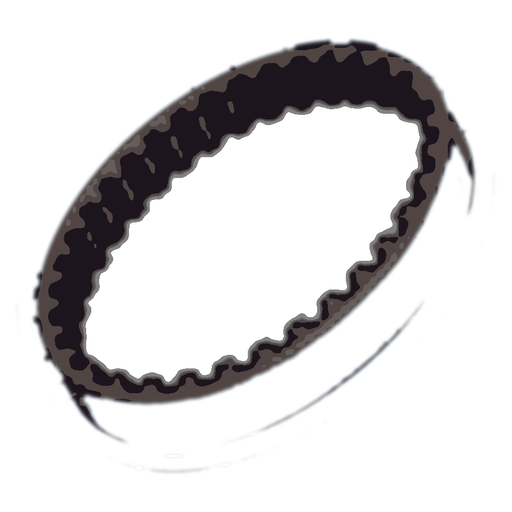
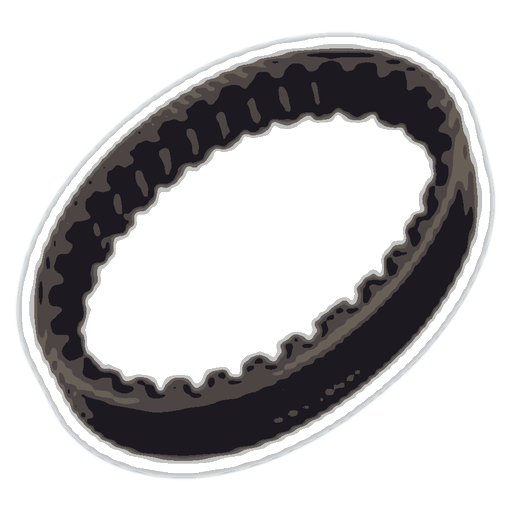
[7.3.1-dev] Tangent Belts, Recovering Overstress & Stock Thermal Governor
Belt pulley fix
The screenshot showed the actual problem: the straight belt runs were travelling through the centreline of each pulley instead of meeting the outer pulley rim.

Fixed:

Belt runs now sit tangent to the outside of each pulley.
The amber travel marker now stays on a real belt run instead of crossing pulley centres.
Belt_Pulley is now an open segmented rim around the shaft axle rather than a solid cylinder.
The shaft remains visible through the pulley centre.
The broad belt take-off surface now covers the tangent belt runs too.
Overstress now changes after load removal
Fixed the stale overload behavior:

Removing a generator/propeller/drivetrain block immediately clears the overload trip through the grid topology change.
Disabling a load without removing its block clears the overload through a short guarded retry.
While the protection trip is active, the engine consistently shows:
OVERSTRESSED — STOPPED
100% stress
It will no longer say OVERSTRESSED while displaying a misleading 8% idle stress value.
Stress now creates proportional heat
Mechanical stress now increases heat continuously.
A stock engine — no engine modules and no physical turbocharger — is hard-governed to 89°C maximum.
Installing engine modules or a physical turbo unlocks the high-risk thermal envelope:
heavy mechanical load can then exceed 89°C,
overheat,
and eventually seize the engine.
[…]

Changed region(s): [[0.0312, 0.0625, 0.9688, 0.9375]]

diff --git a/Scripts/Maritime/MechanicalBeltNetwork.cs b/Scripts/Maritime/MechanicalBeltNetwork.cs
@@ -229,7 +229,10 @@ namespace VoxelEngine.Maritime
             Vector3 localHit = grid.transform.InverseTransformPoint(worldHit);
             float along = Mathf.Clamp01(Vector3.Dot(localHit - start, span) / spanSqr);
             Vector3 projected = start + span * along;
-            float tapTolerance = Mathf.Max(0.18f, cellSize * 0.38f);
+            // The visual belt runs tangent outside the pulley rim, so permit that
+            // intentional radial offset while still requiring the aim to lie on this
+            // belt's longitudinal span.
+            float tapTolerance = Mathf.Max(0.22f, cellSize * 0.55f);
             if ((localHit - projected).sqrMagnitude > tapTolerance * tapTolerance
                 || along <= 0.02f || along >= 0.98f)
             {
@@ -601,9 +604,13 @@ namespace VoxelEngine.Maritime
             // enlarged the loop-plane separation instead, which made the belt look
             // taller. Keep the top/bottom run separation compact and make the band
             // itself dramatically wider across the pulley face.
-            float runGap = Mathf.Max(0.055f, cellSize * 0.085f);
             float radialThickness = Mathf.Max(0.026f, cellSize * 0.030f);
             float axialBeltWidth = Mathf.Max(0.22f, cellSize * 0.30f);
+            float pulleyRadius = Mathf.Max(0.16f, cellSize * 0.19f);
+            // Straight belt runs must sit tangent to the pulley rim. Keeping them
+            // near the centreline was what made the belt visibly cut through each
+            // Belt_Pulley in the reported screenshot.
+            float runGap = pulleyRadius + radialThickness * 0.70f;
             Quaternion rotation = Quaternion.LookRotation(direction, shaftAxis);
             Vector3 center = (start + end) * 0.5f;
 
@@ -612,9 +619,9 @@ namespace VoxelEngine.Maritime
             CreateVisualCube("Belt_Run_B", center - side * runGap, rotation,
                 new Vector3(radialThickness, axialBeltWidth, length), BeltMaterial);
 
-            // A short central travel marker keeps the dark rubber legible against
-            // iron hulls without turning the belt into a glowing cable.
-            CreateVisualCube("Belt_TravelMarker", center, rotation,
+            // Keep the travel marker on a real belt run instead of across the pulley
+            // centres, so it cannot visually cut through the shaft axle.
+            CreateVisualCube("Belt_TravelMarker", center + side * runGap, rotation,
                 new Vector3(radialThickness * 0.70f, axialBeltWidth * 0.72f, Mathf.Min(length * 0.26f, cellSize * 0.55f)), IndicatorMaterial);
             CreatePlacementSurface(center, rotation, length, cellSize, ownerLink);
         }
@@ -635,8 +642,9 @@ namespace VoxelEngine.Maritime
             collider.isTrigger = true;
             // Broad aim surface spanning both reinforced belt runs. It participates
             // only in GridBuilder's dedicated trigger raycast, never ship physics.
+            float pulleyRadius = Mathf.Max(0.16f, cellSize * 0.19f);
             collider.size = new Vector3(
-                Mathf.Max(cellSize * 0.30f, 0.34f),
+                Mathf.Max(pulleyRadius * 2.55f, cellSize * 0.55f),
                 Mathf.Max(cellSize * 0.78f, 0.85f),
                 length + Mathf.Max(cellSize * 0.10f, 0.08f));
 

diff --git a/Scripts/Maritime/GridMaritimeEngine.cs b/Scripts/Maritime/GridMaritimeEngine.cs
@@ -265,6 +265,9 @@ namespace VoxelEngine.Maritime
         /// reducing mechanical load to reset the breaker.
         /// </summary>
         public bool IsOverstressShutdown { get; private set; }
+        private float _overstressRetryAt;
+        private int _overstressTripBlockCount = -1;
+        private const float OverstressRetrySeconds = 0.75f;
 
         /// <summary>Number of turbochargers connected to this engine (for UI).</summary>
         public int ConnectedTurboCount { get; private set; }
@@ -651,10 +654,20 @@ namespace VoxelEngine.Maritime
             CountTurbos();
             RefreshModuleTotals();
 
-            // Explicitly toggling an engine OFF resets a protective mechanical
-            // overload trip. The player must then reduce the load/gear and re-enable
-            // it rather than letting an impossible generator bank flicker on/off.
-            if (!Enabled) IsOverstressShutdown = false;
+            // Explicitly toggling an engine OFF resets a protective trip immediately.
+            // If the player removes a drivetrain block, reset on that topology change;
+            // otherwise make a short guarded retry so disabling a generator can clear
+            // an overload without leaving a stale 100% state forever.
+            if (!Enabled)
+            {
+                ClearOverstressShutdown();
+            }
+            else if (IsOverstressShutdown
+                && ((Grid != null && Grid.BlockCount != _overstressTripBlockCount)
+                    || Time.time >= _overstressRetryAt))
+            {
+                ClearOverstressShutdown();
+            }
 
             float requestedThrottle = Enabled && idleWhenEnabled
                 ? Mathf.Max(throttle, idleThrottleFraction)
@@ -759,7 +772,7 @@ namespace VoxelEngine.Maritime
             // Preserve the trip readout while the protection breaker owns the
             // shutdown. Otherwise the next no-source propagation tick would display
             // a harmless 4–8% idle value while still saying OVERSTRESSED.
-            if (IsOverstressShutdown)
+            if (IsOverstressShutdown && Time.time < _overstressRetryAt)
             {
                 CurrentRPM = 0f;
                 CurrentTorque = 0f;
@@ -793,9 +806,18 @@ namespace VoxelEngine.Maritime
             if (Stress01 >= 0.999f)
             {
                 IsOverstressShutdown = true;
+                _overstressRetryAt = Time.time + OverstressRetrySeconds;
+                _overstressTripBlockCount = Grid != null ? Grid.BlockCount : -1;
                 IsRunning = false;
                 CurrentTorque = 0f;
             }
+        }
+
+        private void ClearOverstressShutdown()
+        {
+            IsOverstressShutdown = false;
+            _overstressRetryAt = 0f;
+            _overstressTripBlockCount = -1;
         }
 
         /// <summary>Scan only named turbo attachment slots and compute stacked boost.</summary>

diff --git a/Scripts/Maritime/MaritimeBlockUI.cs b/Scripts/Maritime/MaritimeBlockUI.cs
@@ -196,7 +196,7 @@ namespace VoxelEngine.Maritime
             var (stressBar, _) = T.ProgressBar(eng.Stress01, stressColor, 6, false);
             p.Add(stressBar);
             if (eng.IsOverstressShutdown)
-                p.Add(T.Muted("OVERSTRESSED: engine protection tripped. Reduce generator/propeller load, then toggle the engine OFF and ON to reset."));
+                p.Add(T.Muted("OVERSTRESSED: engine protection tripped. Remove or disable load to reset immediately; otherwise it makes a guarded retry shortly after the trip."));
 
             // ── Heat ──────────────────────────────────────────────────
             p.Add(T.Spacer(6));

diff --git a/Scripts/Core/GameVersion.cs b/Scripts/Core/GameVersion.cs
@@ -39,7 +39,7 @@ namespace VoxelEngine.Core
         // ── Bump these when you ship ──────────────────────────────────────
         public const int    Major = 7;
         public const int    Minor = 3;
-        public const int    Patch = 0;
+        public const int    Patch = 1;
 
         /// <summary>
         /// Channel suffix appended after a hyphen. Use "" for a stable release,

diff --git a/Roadmap.md b/Roadmap.md
@@ -1,10 +1,10 @@
 # 🏭 IndustrialWorld — Factory-Forward Development Roadmap
 
 **Branch:** `Dev`
-**Current Version:** `7.3.0-dev`
-**Roadmap Version:** `7.3.0-dev`
+**Current Version:** `7.3.1-dev`
+**Roadmap Version:** `7.3.1-dev`
 **Date:** 2026-08-03
-**Status:** Celestial Ruins & Themed Worlds COMPLETED (6.32.0–6.36.3) — 33 themed ruins across 11 planets, slot-chest loot, breakable/salvage, per-block colliders; Crusader Ruins Premium (6.30.0); Offline Survival (11.4) Completed + Grid Gravity Fixed (6.27.3) + Passive Oxygen (11.5); World Management (11.7) Completed; Power, Vehicles & Combat (4.7.0) remains WORKING ON — base defense network + ammo logistics + status UX shipped (6.57–6.68), jetpack fuel (6.72–6.77) + Armor Stations and timed upgrades Unity-validated (6.80.0–6.80.4-dev); 6.80.3-dev hardens mountain footing and dry spawn safety; 6.80.5–6.80.6 maritime power/ports/docking/tank recovery are Unity-validated; 7.0.0-dev intentionally removes Encased Chain Drive content; 7.1.0-dev adds belt-target placement, realistic mechanical load stress, portable-equipment persistence recovery, research-search input protection, and restored-grid ground clearance; 7.3.0-dev finalizes tiered armor capacity/module gates, truthful 100% engine trips with stock 89°C thermal governor, and true pulley-face belt width pending Unity validation, plus remaining life-support/paint work
+**Status:** Celestial Ruins & Themed Worlds COMPLETED (6.32.0–6.36.3) — 33 themed ruins across 11 planets, slot-chest loot, breakable/salvage, per-block colliders; Crusader Ruins Premium (6.30.0); Offline Survival (11.4) Completed + Grid Gravity Fixed (6.27.3) + Passive Oxygen (11.5); World Management (11.7) Completed; Power, Vehicles & Combat (4.7.0) remains WORKING ON — base defense network + ammo logistics + status UX shipped (6.57–6.68), jetpack fuel (6.72–6.77) + Armor Stations and timed upgrades Unity-validated (6.80.0–6.80.4-dev); 6.80.3-dev hardens mountain footing and dry spawn safety; 6.80.5–6.80.6 maritime power/ports/docking/tank recovery are Unity-validated; 7.0.0-dev intentionally removes Encased Chain Drive content; 7.1.0-dev adds belt-target placement, realistic mechanical load stress, portable-equipment persistence recovery, research-search input protection, and restored-grid ground clearance; 7.3.1-dev finalizes tiered armor capacity/module gates, recoverable truthful 100% engine trips with stock 89°C thermal governor, and tangent pulley-face belt runs pending Unity validation, plus remaining life-support/paint work
 **Release Notes:** [`Changelog.md`](Changelog.md)
 
 ---
@@ -85,7 +85,7 @@ The design goal is a seamless blend of:
 | Airtight systems | ❌ MISSING | No airtight doors, vents, or pressurized rooms |
 | Fall damage | ✅ COMPLETED | **6.25.0-dev:** Player fall damage tracks downward impact speed along local gravity. **6.80.0-dev:** Impact Padding upgrades reduce the resulting hard-landing damage per worn armor piece. |
 | Painting / finishes | ✅ COMPLETED | **6.71.0-dev:** Paint Tool + 15 cosmetic finishes for static/grid blocks, HUD swatch, inspection readout, additive save/restore, Step 46 authoring. |
-| Armor crafting/upgrades | 🟡 PARTIALLY COMPLETE | **6.80.4-dev:** Thomas Unity-validated the dedicated Armor Station, anvil-style Armor Upgrade Station, module crafting, timed installation (30s at T1 through 150s at T5/Hazmat), per-piece state, equipment interaction, and additive save/load. **7.3.0-dev** adds tier-gated module capacity/grade rules (T1→1 slot/T1 through T6→6 slots/T5; Hazmat T5+) pending Unity validation. Step 48 authors all content non-destructively. Remaining: broader reactor/re-entry/heated-room hazard systems. |
+| Armor crafting/upgrades | 🟡 PARTIALLY COMPLETE | **6.80.4-dev:** Thomas Unity-validated the dedicated Armor Station, anvil-style Armor Upgrade Station, module crafting, timed installation (30s at T1 through 150s at T5/Hazmat), per-piece state, equipment interaction, and additive save/load. **7.3.1-dev** adds tier-gated module capacity/grade rules (T1→1 slot/T1 through T6→6 slots/T5; Hazmat T5+) pending Unity validation. Step 48 authors all content non-destructively. Remaining: broader reactor/re-entry/heated-room hazard systems. |
 | Crusader player identity | ❌ MISSING | Player faction, heraldry, armor presentation, and Order progression need implementation |
 | Passive livestock | 🚧 IN PROGRESS | **6.43.0-dev:** Cow/Sheep/Pig + `PassiveAnimal` framework + spawner/temperate scatter done. **6.44.0-dev:** rideable horse (mount, full WASD steer, gallop, jump) done. Breeding/needs/husbandry + population limits remain. |
 | Mythical enemies / bosses | ✅ ROSTER COMPLETE (Leviathan sea-boss pending water/naval) | **6.41:** Ghoul. **6.45:** Manticore. **6.46:** Griffin. **6.47:** Karkadann. **6.48:** Ifrit Djinn. **6.49:** Roc mini-boss. **6.50.0-dev:** Basilisk (petrify gaze). All listed land mythical enemies + 1 boss done; Leviathan (sea serpent boss) remains pending water/naval combat support. |
@@ -731,7 +731,7 @@ Statuses are evidence-based and move forward only after code/content review and 
 | Unified grid placement | 🟡 PARTIALLY COMPLETE | Thomas validated Detail-on-Structural lattice placement and size-labelled content. Gas/liquid topology and screen data-source addressing now resolve both block scales on one Grid; **5.69.0-dev** persistence was Unity-validated by Thomas. Remaining positional-indexing work is open. |
 | Unified grid screen sources | ✅ COMPLETED | Thomas validated the unified screen/data-source work. Detail providers use precision-safe encoded addresses while legacy Structural addresses remain compatible. |
 | Unified pipe placement and networks | ✅ COMPLETED | Thomas validated existing Item/Gas/Liquid pipe Detail placement, one-to-five-cell Grid/world links, rotation-independent alignment, correct visual direction, midpoint arms, live ghost previews, stable topology, resource-safe ghosts, and wrench disconnect behavior. No duplicate pipe content was introduced. |
-| Vehicle power foundations | 🛠 WORKING ON | **6.9.0-dev** centralizes battery transfer so Recharge/Discharge modes work together, keeps Auto batteries deterministic, routes maritime fuel/coolant through the unified liquid-pipe network, adds a dedicated crude-engine solid-fuel hopper, and refreshes Step 13 ship-engine/turbo/chain-drive/generator visuals at large premium scale. **6.9.1-dev** further densifies the engine meshes so they read as solid industrial ship machinery with heavier superstructure, railings, housings, and larger flywheels inspired by the supplied reference. **6.9.2-dev** refines the three ship engines again to look less synthetic, relocates visual fuel/coolant/exhaust/rotation ports to more believable service points, centers the major flywheel/output faces, and moves turbo attachment markers onto sensible engine locations. **6.9.3-dev** adds idle engine shaft output for visible running behavior, animates chain-drive/rotation-transfer/generator coupling visuals, and snaps exhaust/shaft-driven maritime parts to the nearest believable matching engine or drivetrain port during placement. **6.17.1-dev** adds [DefaultExecutionOrder(-20)] to MaritimePropulsionSystem (runs before GridEntity), [DefaultExecutionOrder(0)] to GridEntity, maritime power sync in GridEntity.UpdatePower() so generator output and electrical-propeller demand flow into the grid battery pool, and fixes coolant consumption timing (use current-frame conditions instead of last-frame IsRunning). **6.18.0-dev** adds color-coded VARIABLE service ports on the HFO V8 / MGO V12 (aim any engine face → a fuel/coolant/oxygen port appears on the surface, always outside the hull; 1 fuel / 1 coolant / 1 oxygen / 2 exhaust caps, over-cap placement refused with a red ghost + message), rewrites the liquid+gas tank corridor probe onto the detail lattice with overlapping spheres so tanks a few cells off a pipe run connect and fuel/oxygen/coolant actually pump in, auto-orients the exhaust pipe's intake flange onto the engine's exhaust collector, and rebuilds the maritime propellers as true lofted screw blades. **6.19.0-dev** makes the propeller blades scale with the cell and render double-sided (they were invisible before), mounts the color-coded port collars flush on the hull (no more floating), slims the port so it no longer swallows a gas pipe, snaps the pipe hub to the fine Detail lattice, extends variable ports to the Crude Inline-4 (oxygen + item intake, new Item service, per-tier gating), removes the static fuel/coolant/oxygen/item engine ports (exhaust + shaft kept), widens the tank corridor/proximity reach so a tank ~0.5 m off a run connects (incl. diagonal), makes pipe-visual rebuilds event-driven (TopologyVersion bumped on block add/remove) to kill the close-pipe lag, and infers the carried liquid type so a second fuel run is refused with "Fuel input already connected (max 1)". **6.80.5-dev** fixes maritime generator/electrical-propeller double billing, stabilizes partial-power electrical propeller thrust with a resolved grid service fraction, and exposes command/delivered-power diagnostics in the propeller UI/terminal. **6.80.6-dev** adds exact mechanical-port snapping/directed topology, stable landing-pad/gear locks, restored grid Rigidbody pose, grid tank type/amount/mode persistence, and explicit void-or-cancel tank type prompts; Thomas Unity-validated the full maritime fuel→engine→shaft→propeller chain. **6.81.0-dev** adds persistent gearbox settings, a two-click Mechanical Belt bus that powers aligned shaft take-offs, and the sealed Watertight Shaft Housing. **7.0.0-dev** intentionally removes the Encased Chain Drive class, prefab, item, recipe, and generated materials; old ships may lose that block by approved design. Step 13 explicitly repairs the Mechanical Belt recipe and its Tier 1 Hydro-Mechanics research unlock. **7.1.0-dev** adds aim-at-belt shaft take-off placement, exact engine output-port snaps, finite generator/propeller drivetrain loads with engine/gearbox stress and RPM bogging, a Resources item-persistence catalog for portable batteries/H₂ tanks, Research-search Y-key protection, and restored-grid ground-clearance recovery. **7.3.0-dev** finalizes true pulley-face belt width with open-rim pulleys, gates armor upgrade slots/module tiers by armor tier, and makes 100% engine stress trip an explicit OVERSTRESSED shutdown while stock engines remain thermally governed to 89°C. Unity validation remains open. |
+| Vehicle power foundations | 🛠 WORKING ON | **6.9.0-dev** centralizes battery transfer so Recharge/Discharge modes work together, keeps Auto batteries deterministic, routes maritime fuel/coolant through the unified liquid-pipe network, adds a dedicated crude-engine solid-fuel hopper, and refreshes Step 13 ship-engine/turbo/chain-drive/generator visuals at large premium scale. **6.9.1-dev** further densifies the engine meshes so they read as solid industrial ship machinery with heavier superstructure, railings, housings, and larger flywheels inspired by the supplied reference. **6.9.2-dev** refines the three ship engines again to look less synthetic, relocates visual fuel/coolant/exhaust/rotation ports to more believable service points, centers the major flywheel/output faces, and moves turbo attachment markers onto sensible engine locations. **6.9.3-dev** adds idle engine shaft output for visible running behavior, animates chain-drive/rotation-transfer/generator coupling visuals, and snaps exhaust/shaft-driven maritime parts to the nearest believable matching engine or drivetrain port during placement. **6.17.1-dev** adds [DefaultExecutionOrder(-20)] to MaritimePropulsionSystem (runs before GridEntity), [DefaultExecutionOrder(0)] to GridEntity, maritime power sync in GridEntity.UpdatePower() so generator output and electrical-propeller demand flow into the grid battery pool, and fixes coolant consumption timing (use current-frame conditions instead of last-frame IsRunning). **6.18.0-dev** adds color-coded VARIABLE service ports on the HFO V8 / MGO V12 (aim any engine face → a fuel/coolant/oxygen port appears on the surface, always outside the hull; 1 fuel / 1 coolant / 1 oxygen / 2 exhaust caps, over-cap placement refused with a red ghost + message), rewrites the liquid+gas tank corridor probe onto the detail lattice with overlapping spheres so tanks a few cells off a pipe run connect and fuel/oxygen/coolant actually pump in, auto-orients the exhaust pipe's intake flange onto the engine's exhaust collector, and rebuilds the maritime propellers as true lofted screw blades. **6.19.0-dev** makes the propeller blades scale with the cell and render double-sided (they were invisible before), mounts the color-coded port collars flush on the hull (no more floating), slims the port so it no longer swallows a gas pipe, snaps the pipe hub to the fine Detail lattice, extends variable ports to the Crude Inline-4 (oxygen + item intake, new Item service, per-tier gating), removes the static fuel/coolant/oxygen/item engine ports (exhaust + shaft kept), widens the tank corridor/proximity reach so a tank ~0.5 m off a run connects (incl. diagonal), makes pipe-visual rebuilds event-driven (TopologyVersion bumped on block add/remove) to kill the close-pipe lag, and infers the carried liquid type so a second fuel run is refused with "Fuel input already connected (max 1)". **6.80.5-dev** fixes maritime generator/electrical-propeller double billing, stabilizes partial-power electrical propeller thrust with a resolved grid service fraction, and exposes command/delivered-power diagnostics in the propeller UI/terminal. **6.80.6-dev** adds exact mechanical-port snapping/directed topology, stable landing-pad/gear locks, restored grid Rigidbody pose, grid tank type/amount/mode persistence, and explicit void-or-cancel tank type prompts; Thomas Unity-validated the full maritime fuel→engine→shaft→propeller chain. **6.81.0-dev** adds persistent gearbox settings, a two-click Mechanical Belt bus that powers aligned shaft take-offs, and the sealed Watertight Shaft Housing. **7.0.0-dev** intentionally removes the Encased Chain Drive class, prefab, item, recipe, and generated materials; old ships may lose that block by approved design. Step 13 explicitly repairs the Mechanical Belt recipe and its Tier 1 Hydro-Mechanics research unlock. **7.1.0-dev** adds aim-at-belt shaft take-off placement, exact engine output-port snaps, finite generator/propeller drivetrain loads with engine/gearbox stress and RPM bogging, a Resources item-persistence catalog for portable batteries/H₂ tanks, Research-search Y-key protection, and restored-grid ground-clearance recovery. **7.3.1-dev** finalizes tangent belt runs around open pulley rims, gates armor upgrade slots/module tiers by armor tier, and makes 100% engine stress trip an honest recoverable OVERSTRESSED shutdown while stock engines remain thermally governed to 89°C. Unity validation remains open. |
 | Damage, armor, weapons, and life support | 🟡 PARTIALLY COMPLETE | Basic block HP/damage and one grid weapon foundation exist. **6.80.4-dev:** Thomas Unity-validated the dedicated Armor Station, timed anvil-style Armor Upgrade Station, five module branches (five tiers each), Hazmat sealing, per-piece persistence, and the slim environmental heat/radiation hook. Step 48 authors/repairs the content non-destructively. Full typed damage, pooled ballistics, airtight support, and the rest of the radiation/heat combat content remain open. |
 
 **Crusader identity requirements:**
@@ -1612,7 +1612,7 @@ For each version, these are the high-level Unity tasks you will perform manually
 19. Create painting tool item and 15 material finish variants.
 20. Add fall damage system and oxygen underwater system.
 21. **Run setup wizard steps (non-destructive)**
-    - Step 13 for maritime prefabs after drivetrain/port changes. **7.3.0-dev:** run it twice to refresh the v26 Watertight Shaft Housing mesh plus gearbox/generator/propeller/shaft port markers without overwriting ship balance or custom prefab work. Step 13 explicitly repairs the Mechanical Belt recipe/Hydro-Mechanics unlock and creates the Resources persistence catalog that prevents Portable Battery and Portable Hydrogen Tank save-loss. The removed Encased Chain Drive content stays absent by design.
+    - Step 13 for maritime prefabs after drivetrain/port changes. **7.3.1-dev:** run it twice to refresh the v26 Watertight Shaft Housing mesh plus gearbox/generator/propeller/shaft port markers without overwriting ship balance or custom prefab work. Step 13 explicitly repairs the Mechanical Belt recipe/Hydro-Mechanics unlock and creates the Resources persistence catalog that prevents Portable Battery and Portable Hydrogen Tank save-loss. The removed Encased Chain Drive content stays absent by design.
     - Step 18 for power/vehicle/combat/painting blocks.
     - Step 48 for the complete armor workflow, including both station prefabs, items, recipes, research links, timed installation setup, and T1→1-slot/T1-module through T6→6-slot/T5-module progression gates.
     - Preserve existing grid power values, weapon damage, recipe costs, craft times, materials, and custom prefab work.

diff --git a/Changelog.md b/Changelog.md
@@ -1,9 +1,30 @@
 # IndustrialWorld — Changelog
 
 **Branch:** `Dev`  
-**Current Version:** `7.3.0-dev`
+**Current Version:** `7.3.1-dev`
 
 All release notes are maintained here so `Roadmap.md` remains focused on planned work and execution status.
+
+### [7.3.1-dev] Tangent Belts, Recovering Overstress & Stock Thermal Governor
+
+**Type:** PATCH — visual/mechanical correction and thermal-protection refinement; save-compatible.
+
+#### 🟨 Belt runs now meet pulley rims correctly
+- Moved each straight belt run to the pulley tangent instead of the pulley centreline.
+- Belt bands and the travel marker no longer cut through the centre of `Belt_Pulley` / the shaft axle.
+- Kept the wide pulley-face belt profile and expanded the invisible take-off surface to cover the tangent runs.
+
+#### ⛔ Overstress now clears honestly
+- Fixed protective overload state retention: removing or disabling a mechanical load now clears the stale trip immediately when topology changes.
+- A short guarded retry also clears a trip after load changes that do not alter block count, such as disabling a generator.
+- While the safety breaker is actively holding, the UI consistently reports 100% stress instead of a misleading idle percentage.
+
+#### 🌡 Stock engine heat ceiling
+- Mechanical stress now raises heat continuously.
+- Stock engines with no modules and no physical turbo remain hard-governed to **89°C**.
+- Performance modules or a physical turbo unlock the high-risk thermal envelope, where stress can push heat past 89°C and eventually into overheating/seizure.
+
+---
 
 ### [7.3.0-dev] Tiered Armor Loadouts, Honest Trips & True Belt Width
 
